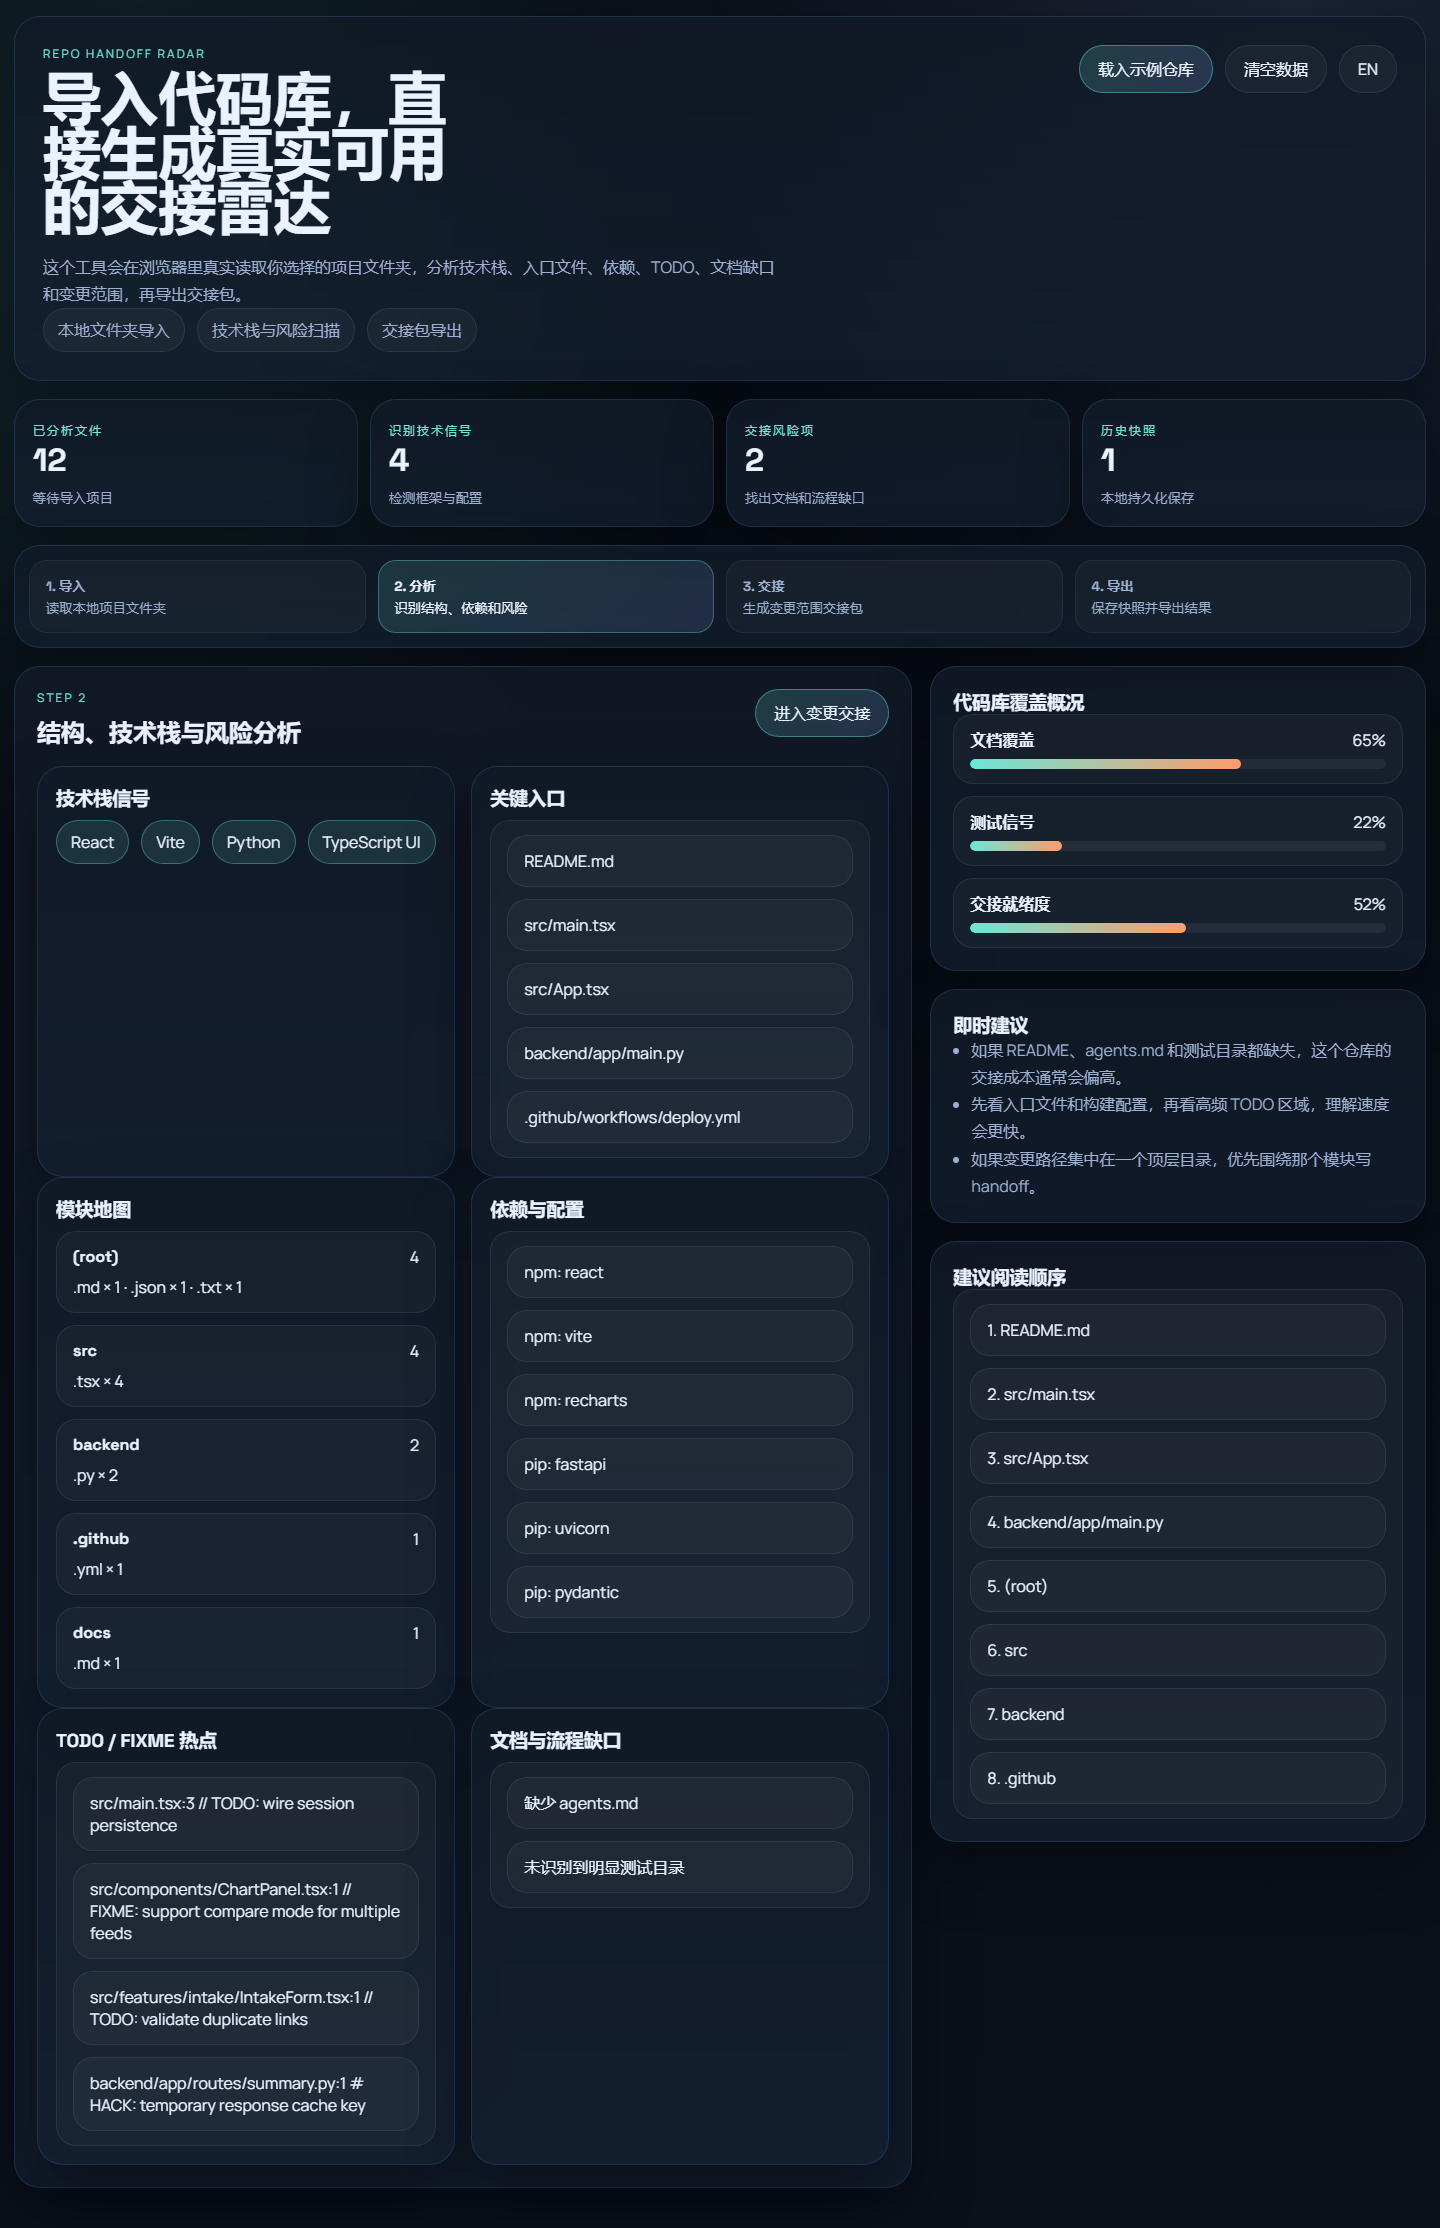
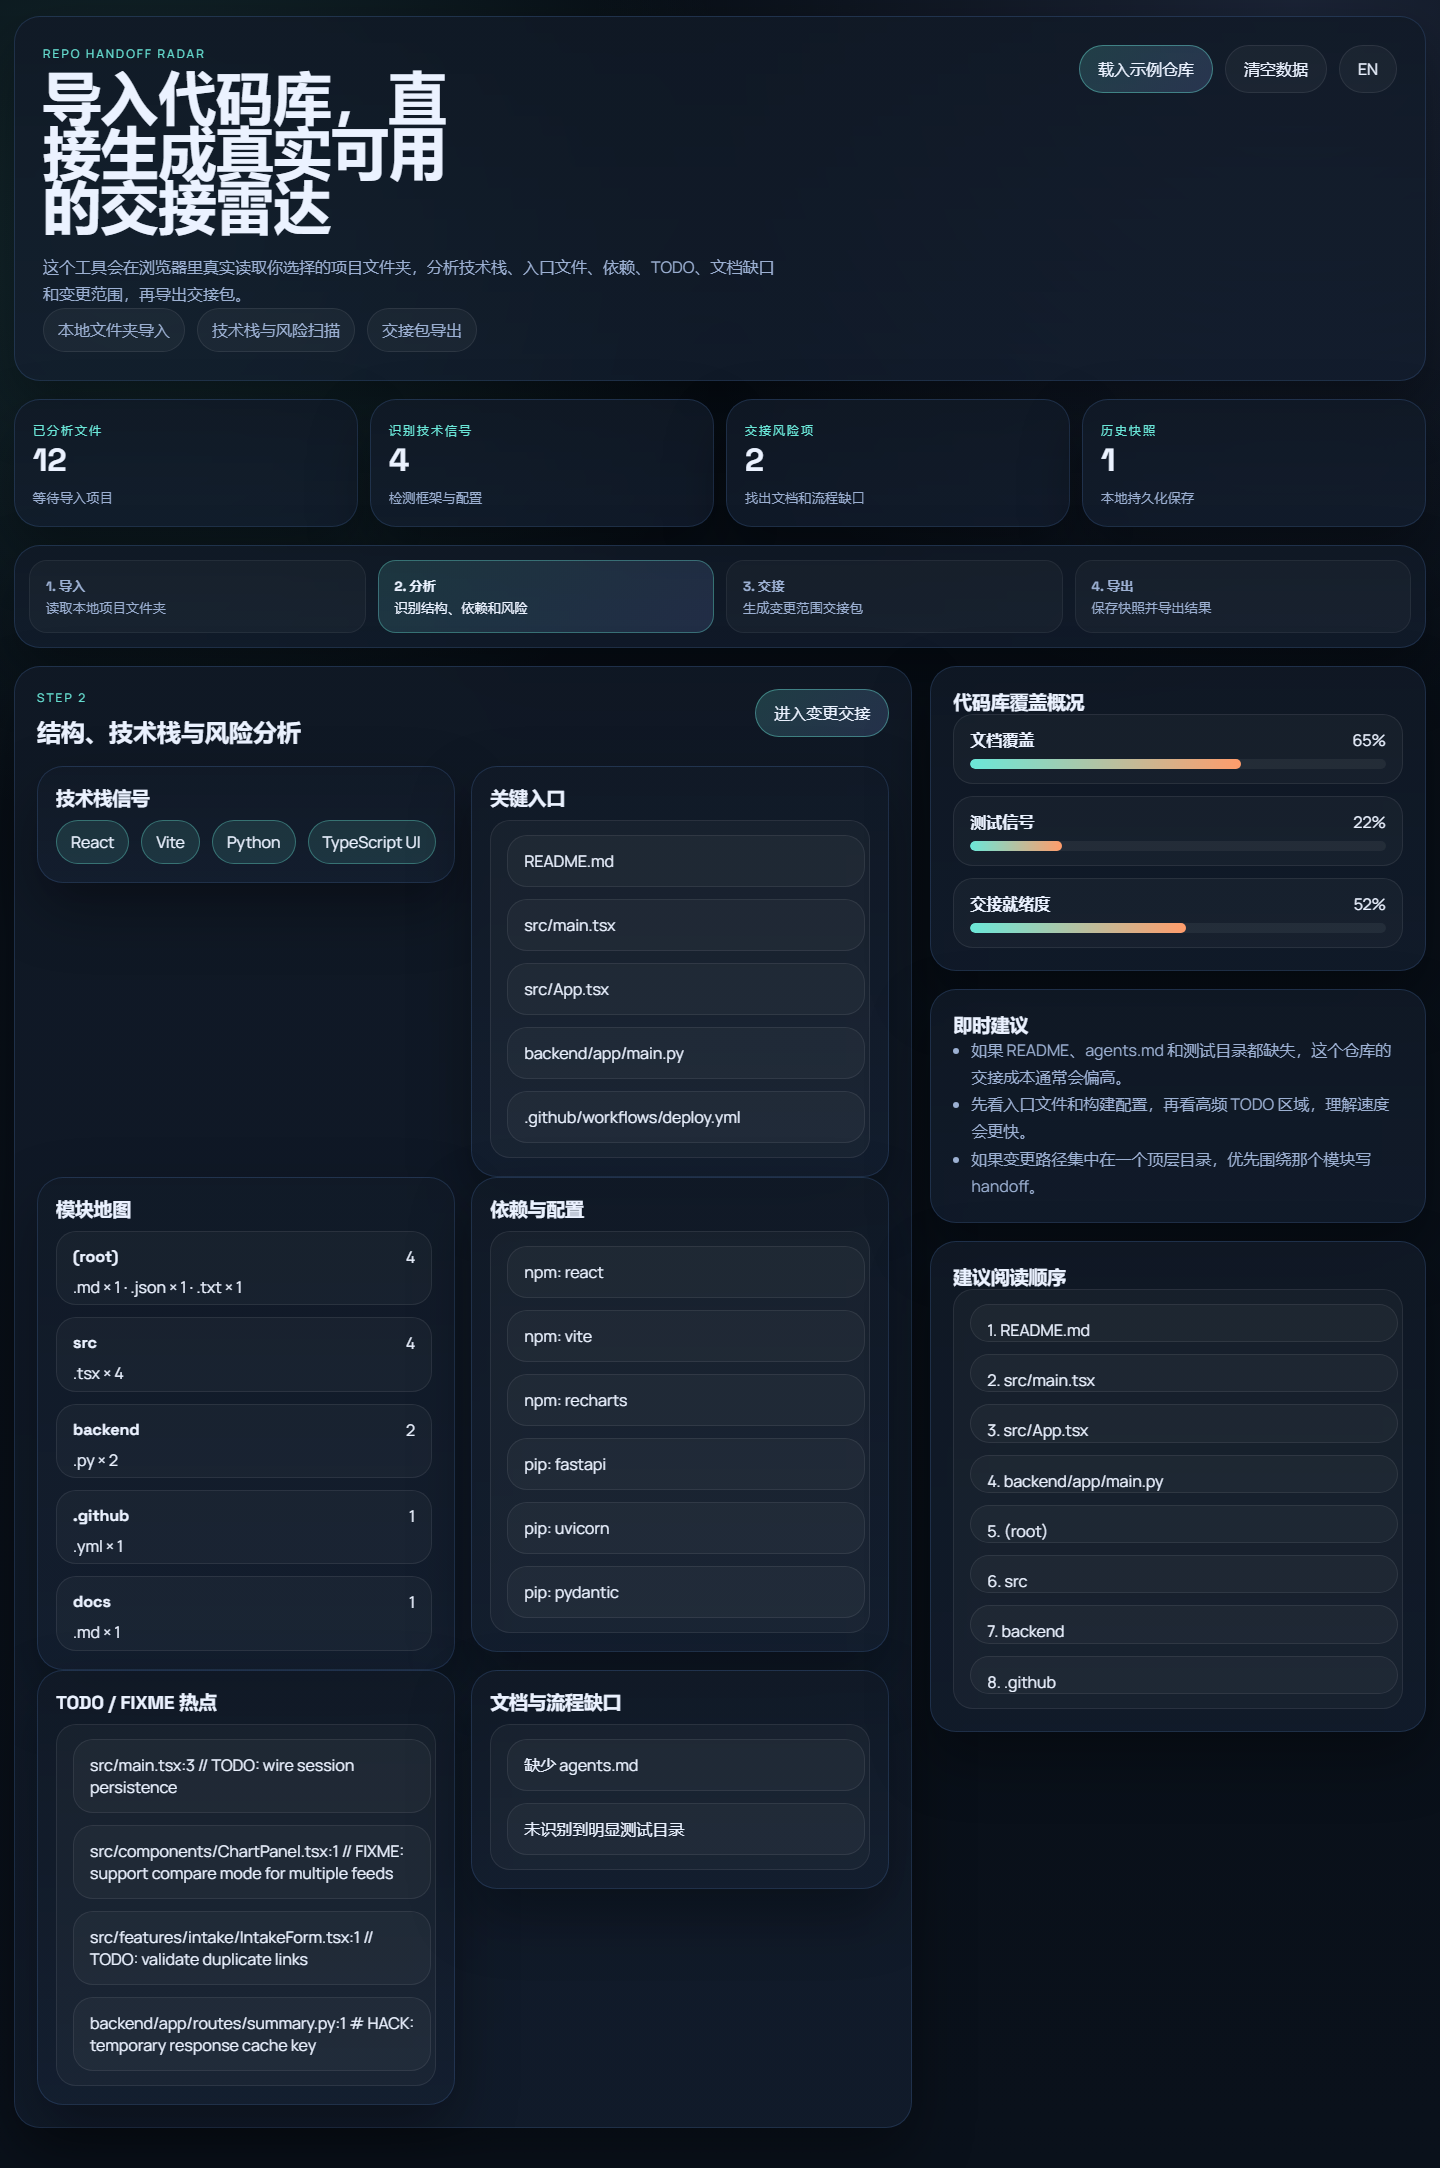
Harden layout for large repo results

diff --git a/app.js b/app.js
@@ -1,6 +1,7 @@
 const storageKey = "repo-handoff-radar-day5-state";
 const textFileLimit = 420;
 const maxReadBytes = 220000;
+const ignoredDirectoryNames = ["node_modules", ".git", "dist", "build", "coverage", ".next", "vendor", "target", "out", "__pycache__", ".turbo"];
 
 const i18n = {
   zh: {
@@ -65,6 +66,7 @@ const i18n = {
       "真正读取你选择的文件夹内容，而不是只展示假数据。",
       "支持检测 package.json、requirements.txt、pom.xml、Cargo.toml 等配置文件。",
       "扫描 TODO、FIXME、HACK，帮助判断哪里最需要先看。",
+      "默认忽略 node_modules、dist、build 等噪音目录，避免布局和结果被生成文件污染。",
       "支持粘贴变更文件路径，自动生成 scoped handoff。"
     ],
     emptyState: "还没有导入项目。可以载入示例仓库，或者选择一个本地项目文件夹。",
@@ -99,6 +101,7 @@ const i18n = {
       root: "根目录",
       files: "总文件数",
       analyzedText: "已分析文本文件",
+      ignoredNoise: "忽略噪音文件",
       skipped: "跳过文件",
       estimatedTokens: "估算上下文 tokens"
     },
@@ -181,6 +184,7 @@ const i18n = {
       "It reads the folder you choose instead of pretending with empty UI.",
       "It detects package.json, requirements.txt, pom.xml, Cargo.toml, and more.",
       "It scans TODO, FIXME, and HACK markers to show where attention is needed.",
+      "It ignores noisy generated directories such as node_modules, dist, and build by default.",
       "It supports pasted changed-file paths to generate scoped handoff output."
     ],
     emptyState: "No project is imported yet. Load the sample repo or choose a local project folder.",
@@ -215,6 +219,7 @@ const i18n = {
       root: "Root",
       files: "Total files",
       analyzedText: "Text files analyzed",
+      ignoredNoise: "Ignored noisy files",
       skipped: "Skipped files",
       estimatedTokens: "Estimated context tokens"
     },
@@ -351,6 +356,11 @@ function normalizePath(value) {
   return value.replace(/\\/g, "/");
 }
 
+function shouldIgnorePath(path) {
+  const parts = normalizePath(path).split("/");
+  return parts.some((part) => ignoredDirectoryNames.includes(part));
+}
+
 function isTextLike(path) {
   const lower = path.toLowerCase();
   const binaryExtensions = [".png", ".jpg", ".jpeg", ".gif", ".webp", ".svg", ".ico", ".zip", ".jar", ".woff", ".woff2", ".ttf", ".mp4", ".mov", ".pdf", ".exe", ".dll", ".so", ".bin", ".class"];
@@ -361,8 +371,13 @@ function isTextLike(path) {
 async function filesToDataset(files) {
   const items = [];
   let skipped = 0;
+  let ignored = 0;
   for (const file of Array.from(files)) {
     const path = normalizePath(file.webkitRelativePath || file.name);
+    if (shouldIgnorePath(path)) {
+      ignored += 1;
+      continue;
+    }
     const item = { path, size: file.size };
     if (isTextLike(path) && file.size <= maxReadBytes && items.length < textFileLimit) {
       item.content = await file.text();
@@ -371,7 +386,7 @@ async function filesToDataset(files) {
     }
     items.push(item);
   }
-  return { files: items, skipped, root: deriveRoot(items.map((item) => item.path)) };
+  return { files: items, skipped, ignored, root: deriveRoot(items.map((item) => item.path)) };
 }
 
 function deriveRoot(paths) {
@@ -443,13 +458,18 @@ function detectEntries(dataset) {
   return candidates.slice(0, 12);
 }
 
+function shortenSnippet(value, maxLength = 180) {
+  const compact = value.replace(/\s+/g, " ").trim();
+  return compact.length > maxLength ? `${compact.slice(0, maxLength - 1)}…` : compact;
+}
+
 function scanTodos(dataset) {
   const todos = [];
   dataset.files.forEach((file) => {
     if (!file.content) return;
     file.content.split(/\r?\n/).forEach((line, index) => {
       if (/(TODO|FIXME|HACK|BUG)/i.test(line) && todos.length < 24) {
-        todos.push({ path: file.path, line: index + 1, text: line.trim() });
+        todos.push({ path: file.path, line: index + 1, text: shortenSnippet(line) });
       }
     });
   });
@@ -508,6 +528,7 @@ function analyzeDataset(dataset) {
     root: dataset.root,
     fileCount: dataset.files.length,
     analyzedText,
+    ignored: dataset.ignored || 0,
     skipped: dataset.skipped,
     estimatedTokens,
     modules,
@@ -610,6 +631,7 @@ function renderMetrics() {
     [t("factKeys").root, analysis.root],
     [t("factKeys").files, analysis.fileCount],
     [t("factKeys").analyzedText, analysis.analyzedText],
+    [t("factKeys").ignoredNoise, analysis.ignored],
     [t("factKeys").skipped, analysis.skipped],
     [t("factKeys").estimatedTokens, analysis.estimatedTokens],
   ];
@@ -764,7 +786,7 @@ async function loadDataset(dataset) {
 function hydrateFromUrl() {
   const params = new URLSearchParams(window.location.search);
   if (params.get("demo") === "sample") {
-    const dataset = { files: sampleRepo.map((item) => ({ ...item, size: item.content.length })), skipped: 0, root: "insight-board" };
+    const dataset = { files: sampleRepo.map((item) => ({ ...item, size: item.content.length })), skipped: 0, ignored: 0, root: "insight-board" };
     state.dataset = dataset;
     state.analysis = analyzeDataset(dataset);
     state.scopeInput = "src/App.tsx\nsrc/components/ChartPanel.tsx\nbackend/app/routes/summary.py";
@@ -790,7 +812,7 @@ function attachListeners() {
   });
 
   els.sampleBtn.addEventListener("click", async () => {
-    await loadDataset({ files: sampleRepo.map((item) => ({ ...item, size: item.content.length })), skipped: 0, root: "insight-board" });
+    await loadDataset({ files: sampleRepo.map((item) => ({ ...item, size: item.content.length })), skipped: 0, ignored: 0, root: "insight-board" });
   });
 
   els.clearBtn.addEventListener("click", () => {

diff --git a/styles.css b/styles.css
@@ -115,7 +115,7 @@ h1 { font-size: clamp(2.2rem, 4vw, 4.6rem); line-height: 0.95; max-width: 11ch; 
 
 .workspace {
   display: grid; grid-template-columns: minmax(0, 1.45fr) minmax(320px, 0.8fr);
-  gap: 18px; margin-top: 18px;
+  gap: 18px; margin-top: 18px; align-items: start;
 }
 .main-column, .side-column { display: flex; flex-direction: column; gap: 18px; }
 .step-panel, .summary-card { padding: 22px; }
@@ -124,7 +124,7 @@ h1 { font-size: clamp(2.2rem, 4vw, 4.6rem); line-height: 0.95; max-width: 11ch; 
 }
 
 .import-grid, .panel-grid {
-  display: grid; grid-template-columns: repeat(2, minmax(0, 1fr)); gap: 16px;
+  display: grid; grid-template-columns: repeat(2, minmax(0, 1fr)); gap: 16px; align-items: start;
 }
 
 .sub-card { padding: 18px; }
@@ -135,6 +135,8 @@ h1 { font-size: clamp(2.2rem, 4vw, 4.6rem); line-height: 0.95; max-width: 11ch; 
   border: 1px solid rgba(255,255,255,0.08);
   border-radius: var(--radius-lg);
   padding: 14px 16px;
+  overflow-wrap: anywhere;
+  word-break: break-word;
 }
 .list-card, .history-list, .key-value-list, .module-list, .signal-bars { display: flex; flex-direction: column; gap: 12px; }
 .module-item header, .history-item header, .signal-item header {
@@ -148,8 +150,77 @@ textarea, input {
   padding: 14px 16px; font: inherit;
 }
 textarea { resize: vertical; min-height: 160px; }
-.preview-block { min-height: 460px; white-space: pre-wrap; line-height: 1.66; }
+.preview-block { min-height: 460px; max-height: 720px; overflow: auto; white-space: pre-wrap; line-height: 1.66; }
 .hidden { display: none; }
+
+#importSummary,
+#entryFiles,
+#dependencyList,
+#todoList,
+#gapList,
+#readingOrder,
+#scopeImpact,
+#snapshotList,
+#comparePanel,
+#moduleMap {
+  max-height: 420px;
+  overflow: auto;
+  padding-right: 4px;
+}
+
+#entryFiles .list-card,
+#dependencyList .list-card,
+#gapList .list-card,
+#readingOrder .list-card,
+#scopeImpact .list-card,
+#importSummary .kv-item,
+#snapshotList .history-item,
+#moduleMap .module-item {
+  max-height: 112px;
+  overflow: auto;
+}
+
+#todoList .list-card {
+  max-height: 168px;
+  overflow: auto;
+}
+
+#comparePanel {
+  min-height: 180px;
+}
+
+#handoffPreview {
+  tab-size: 2;
+}
+
+#importSummary::-webkit-scrollbar,
+#entryFiles::-webkit-scrollbar,
+#dependencyList::-webkit-scrollbar,
+#todoList::-webkit-scrollbar,
+#gapList::-webkit-scrollbar,
+#readingOrder::-webkit-scrollbar,
+#scopeImpact::-webkit-scrollbar,
+#snapshotList::-webkit-scrollbar,
+#comparePanel::-webkit-scrollbar,
+#moduleMap::-webkit-scrollbar,
+#handoffPreview::-webkit-scrollbar {
+  width: 10px;
+}
+
+#importSummary::-webkit-scrollbar-thumb,
+#entryFiles::-webkit-scrollbar-thumb,
+#dependencyList::-webkit-scrollbar-thumb,
+#todoList::-webkit-scrollbar-thumb,
+#gapList::-webkit-scrollbar-thumb,
+#readingOrder::-webkit-scrollbar-thumb,
+#scopeImpact::-webkit-scrollbar-thumb,
+#snapshotList::-webkit-scrollbar-thumb,
+#comparePanel::-webkit-scrollbar-thumb,
+#moduleMap::-webkit-scrollbar-thumb,
+#handoffPreview::-webkit-scrollbar-thumb {
+  background: rgba(143, 168, 255, 0.28);
+  border-radius: 999px;
+}
 
 .signal-track {
   height: 10px; border-radius: 999px; overflow: hidden;
